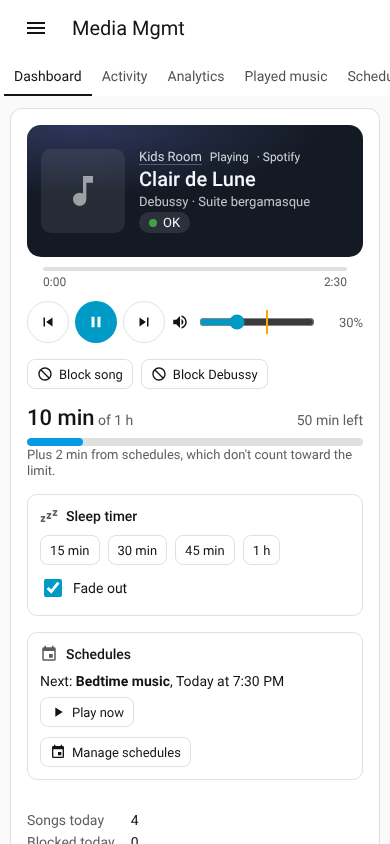
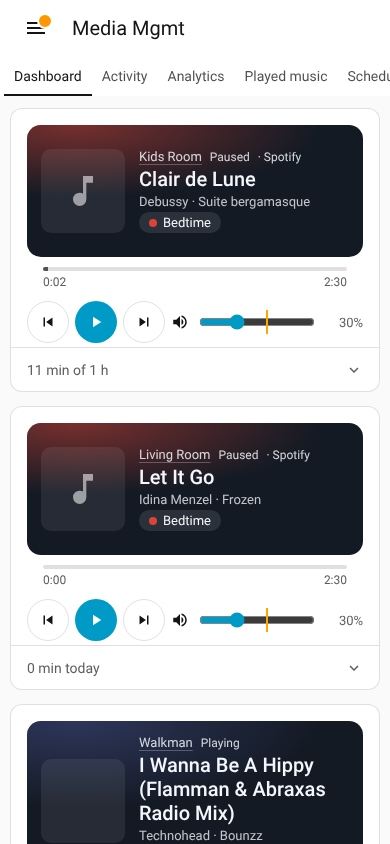
0.2.0: collapsible speakers, ready for Home Assistant 2027.8
- Dashboard speakers collapse to just the player and start collapsed;
  opened speakers are remembered on each device
- Don't pass via_device on Home Assistant 2026.8+, which warns from 2026.10
  and stops working in 2027.8
- Allow a few seconds' slack in the schedule-time test (timer order differs
  on Home Assistant 2026.10)
- Add the MIT license HACS requires; move workflows to Node 24 actions

Claude-Session: https://claude.ai/code/session_012Y8otHZg83L5KiG2fTv8Mf

diff --git a/custom_components/media_mgmt/frontend/media-mgmt-panel.js b/custom_components/media_mgmt/frontend/media-mgmt-panel.js
@@ -206,7 +206,10 @@ function describeEvent(e) {
   }
 }
 
+const EXPANDED_KEY = "media-mgmt-expanded";
+
 const ICONS = {
+  "chevron-down": "M7.41,8.58L12,13.17L16.59,8.58L18,10L12,16L6,10L7.41,8.58Z",
   play: "M8,5.14V19.14L19,12.14L8,5.14Z",
   pause: "M14,19H18V5H14M6,19H10V5H6V19Z",
   stop: "M18,18H6V6H18V18Z",
@@ -293,6 +296,17 @@ small.muted { font-size: 13px; }
 
 /* Speaker card */
 .speaker-card { container: spk / inline-size; }
+.grid { align-items: start; }
+.speaker-card.collapsed .tile-wrap { padding-bottom: 4px; }
+.speaker-card.collapsed .tile-block { display: none; }
+.expand { display: flex; align-items: center; justify-content: space-between; gap: 8px; width: 100%; min-height: 44px;
+  padding: 10px 16px; border: 0; border-top: 1px solid var(--divider-color); background: none; cursor: pointer;
+  color: var(--secondary-text-color); font-size: 14px; text-align: left; }
+.expand span { overflow: hidden; text-overflow: ellipsis; white-space: nowrap; }
+.expand:hover { background: color-mix(in srgb, var(--primary-color) 6%, transparent); }
+.expand:focus-visible { outline: 2px solid var(--primary-color); outline-offset: -2px; }
+.expand .icon { transition: transform .15s; }
+.expand[aria-expanded="true"] .icon { transform: rotate(180deg); }
 .spk-layout { display: grid; }
 @container spk (min-width: 760px) {
   .spk-layout { grid-template-columns: minmax(0, 1.1fr) minmax(0, 1fr); }
@@ -524,6 +538,25 @@ class MediaMgmtPanel extends HTMLElement {
     this._notes = {};
     this._error = null;
     this._busy = false;
+    // Speakers opened on the dashboard. Collapsed (just the player) by default;
+    // remembered on this device.
+    this._expanded = new Set();
+    try {
+      this._expanded = new Set(JSON.parse(localStorage.getItem(EXPANDED_KEY) || "[]"));
+    } catch (err) {
+      /* storage unavailable: everything starts collapsed */
+    }
+  }
+
+  _toggleExpanded(id) {
+    if (this._expanded.has(id)) this._expanded.delete(id);
+    else this._expanded.add(id);
+    try {
+      localStorage.setItem(EXPANDED_KEY, JSON.stringify([...this._expanded]));
+    } catch (err) {
+      /* not remembered, still works */
+    }
+    this._render();
   }
 
   set hass(hass) {
@@ -861,10 +894,25 @@ class MediaMgmtPanel extends HTMLElement {
     const adultOn = p.state === "adult_mode" || !!p.adult_mode_until;
     const nextSched = (p.schedules || []).filter((s) => s.enabled && s.next_run).sort((a, b) => a.next_run.localeCompare(b.next_run))[0];
     const active = (p.schedules || []).find((s) => s.active);
+    const open = this._expanded.has(id);
+    // Collapsed: just the player, with a one-line summary on the button that opens the rest.
+    const summary = [
+      limit ? `${duration(p.used_seconds)} of ${duration(limit * 60)}` : `${duration(p.used_seconds)} today`,
+      active ? `${active.name} until ${hhmmLabel(active.stop)}` : p.sleep_until ? `Sleep timer ${timeOf(p.sleep_until)}` : "",
+    ].filter(Boolean).join(" · ");
+    const toggle = `<button class="expand" data-expand="${id}" aria-expanded="${open}" aria-controls="more-${id}">
+        <span>${open ? "Show less" : esc(summary)}</span>${icon("chevron-down")}</button>`;
+    if (!open) {
+      return `
+      <section class="card speaker-card collapsed" aria-label="${esc(p.name)}">
+        <div class="tile-wrap" id="np-${id}">${this._tile(p)}</div>
+        ${toggle}
+      </section>`;
+    }
 
     return `
       <section class="card speaker-card" aria-label="${esc(p.name)}">
-        <div class="spk-layout">
+        <div class="spk-layout" id="more-${id}">
           <div class="col">
             <div class="tile-wrap" id="np-${id}">${this._tile(p)}</div>
             <div class="card-body">
@@ -917,6 +965,7 @@ class MediaMgmtPanel extends HTMLElement {
             ${this._entityLinks(p)}
           </div>
         </div>
+        ${toggle}
       </section>`;
   }
 
@@ -980,7 +1029,7 @@ class MediaMgmtPanel extends HTMLElement {
         </div><output>${Math.round(attrs.volume_level * 100)}%</output></div>`
       : "";
     const blockButtons = media
-      ? `<div class="row">
+      ? `<div class="row tile-block">
           ${blocked ? `<span class="chip tone-bad">Blocked: ${esc(KIND_LABELS[blocked.kind])} “${esc(blocked.rule)}”</span>` : ""}
           <button class="btn small" data-block="track" data-value="${esc(trackEntry(media.title, media.artist))}" data-id="${id}">${icon("block")} Block song</button>
           ${media.artist ? `<button class="btn small" data-block="artist" data-value="${esc(media.artist)}" data-id="${id}">${icon("block")} Block ${esc(media.artist)}</button>` : ""}
@@ -1873,6 +1922,10 @@ class MediaMgmtPanel extends HTMLElement {
       }
       if (ds.tab !== "schedules") this._schedEdit = null;
       this._render();
+      return;
+    }
+    if (ds.expand) {
+      this._toggleExpanded(ds.expand);
       return;
     }
     if (ds.playValue !== undefined && this._schedEdit) {

diff --git a/custom_components/media_mgmt/entity.py b/custom_components/media_mgmt/entity.py
@@ -21,13 +21,19 @@ class MediaMgmtEntity(Entity):
         entry = manager.entry
         self._attr_unique_id = f"{entry.entry_id}_{key}"
         self._attr_translation_key = key
+        info: dict = {}
+        # Only older Home Assistant (before 2026.8) shows the profile under the
+        # speaker with via_device. Newer versions link the devices instead, and
+        # warn about via_device even when it's None (removed in 2027.8).
+        if (speaker := _speaker_device(manager)) is not None:
+            info["via_device"] = speaker
         self._attr_device_info = DeviceInfo(
             identifiers={(DOMAIN, entry.entry_id)},
             name=f"Media Mgmt — {entry.title}",
             manufacturer="Media Mgmt",
             model="Speaker profile",
             entry_type=DeviceEntryType.SERVICE,
-            via_device=_speaker_device(manager),
+            **info,
         )
 
     async def _ensure_allowed(self) -> None:

diff --git a/tests/ha/test_schedules.py b/tests/ha/test_schedules.py
@@ -53,8 +53,10 @@ async def test_bedtime_schedule_plays_through_quiet_window_then_fades_and_stops(
     await tick(hass, freezer)
     assert manager.decision.state == "enforcing"
     # Schedule time doesn't count toward the daily limit (only the moments
-    # after it ended, before the speaker reported it paused).
-    assert manager.state.schedule_seconds == 300
+    # after it ended, before the speaker reported it paused). The few seconds
+    # between the stop time and the check that stops it can count either way,
+    # depending on the order Home Assistant runs timers in.
+    assert 300 <= manager.state.schedule_seconds <= 330
     assert manager.state.used_seconds <= 60
 
 

diff --git a/README.md b/README.md
@@ -57,13 +57,13 @@ The speaker needs to be set up in Home Assistant already. Everything else is set
 Media Mgmt adds a **Media Mgmt** entry to the Home Assistant sidebar for admins, and for any parents you give access to. Every setting lives here, so it's the one place to manage your speakers. It needs no add-on and works in the browser and the Companion app.
 
 <p>
-<img src="docs/images/panel-dashboard.png" alt="Dashboard: a speaker playing Clair de Lune, with playback controls, Block song and Block artist, listening time, a sleep timer and the next schedule" width="260">
+<img src="docs/images/panel-dashboard.png" alt="Dashboard: speakers collapsed to just the player, each with playback controls, volume and its listening time" width="260">
 <img src="docs/images/panel-schedule.png" alt="Schedule editor: start music at 7:30 PM, stop at 8:30 PM, play an artist picked from those played on this speaker before" width="260">
 </p>
 
 *Screenshots use sample data.*
 
-- **Dashboard.** Every speaker at a glance:
+- **Dashboard.** Every speaker at a glance. Each one starts collapsed to just the player (what's playing, play/pause, skip and volume) with its listening time underneath; tap that line to open the rest. Speakers you open stay open on that device. Opened, a speaker shows:
   - what's playing, with artwork, progress, play/pause, skip and volume (with the volume cap marked)
   - **Block song** and **Block artist** for whatever's playing
   - listening time used and left, and time from schedules

diff --git a/CHANGELOG.md b/CHANGELOG.md
@@ -6,6 +6,18 @@ The format follows [Keep a Changelog](https://keepachangelog.com/en/1.1.0/), and
 
 ## [Unreleased]
 
+## [0.2.0] - 2026-10-16
+
+### Changed
+
+- **Speakers on the dashboard collapse to just the player,** and start collapsed: artwork, what's playing, progress, play/pause, skip and volume, with a line underneath showing listening time and any schedule or sleep timer. Tap it to open the rest. Each speaker you open stays open on that device.
+
+### Fixed
+
+- **Ready for Home Assistant 2027.8.** Media Mgmt no longer passes `via_device` for its device on Home Assistant 2026.8 and newer, which logged a deprecation warning from 2026.10.
+- A schedule test could fail depending on the order Home Assistant runs timers in.
+- The repository now has a license, which HACS requires.
+
 ## [0.1.0] - 2026-10-16
 
 First release.
@@ -30,5 +42,6 @@ First release.
 - Actions: `grant_extension`, `force_block`, `unblock`, `reset_usage`, `block_media`, `unblock_media`, `set_sleep_timer`, `cancel_sleep_timer` and `run_schedule`.
 - Events: `media_mgmt_media_blocked`, `media_mgmt_warning`, `media_mgmt_enforcement_changed` and `media_mgmt_schedule`.
 
-[Unreleased]: https://github.com/bisman-automations/ha-media-mgmt/compare/v0.1.0...HEAD
+[Unreleased]: https://github.com/bisman-automations/ha-media-mgmt/compare/v0.2.0...HEAD
+[0.2.0]: https://github.com/bisman-automations/ha-media-mgmt/compare/v0.1.0...v0.2.0
 [0.1.0]: https://github.com/bisman-automations/ha-media-mgmt/releases/tag/v0.1.0
